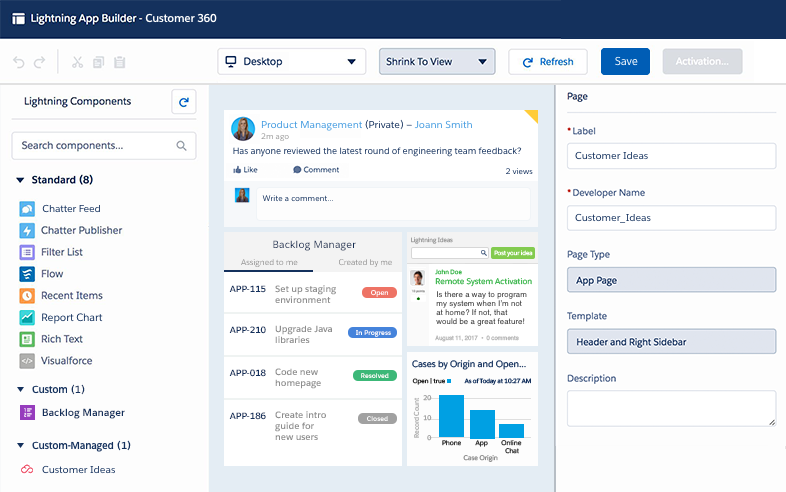
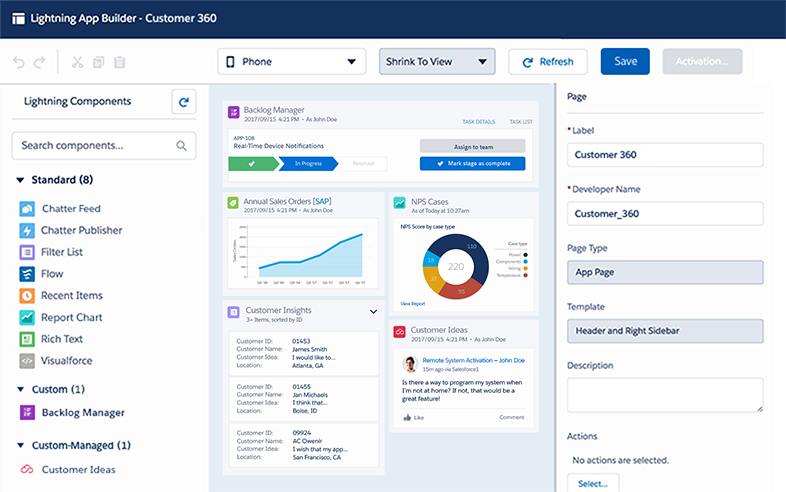
mobile views

diff --git a/src/index.config.js b/src/index.config.js
@@ -356,6 +356,9 @@ export default function ($stateProvider, $urlRouterProvider, $provide) {
           template: require('./app/3-build-your-app/partials/5-customize-a-page-layout.drawer.html'),
           controller: 'CustomizeAPageLayoutDrawerController'
         },
+        phone: {
+          template: require('./app/3-build-your-app/partials/5-customize-a-page-layout.phone.html')
+        },
         mobile: {
           template: require('./mobile.html')
         }
@@ -377,6 +380,9 @@ export default function ($stateProvider, $urlRouterProvider, $provide) {
         drawer: {
           template: require('./app/3-build-your-app/partials/6-customize-navigation.drawer.html'),
           controller: 'CustomizeNavigationDrawerController'
+        },
+        phone: {
+          template: require('./app/3-build-your-app/partials/6-customize-navigation.phone.html')
         },
         mobile: {
           template: require('./mobile.html')

diff --git a/src/app/3-build-your-app/partials/6-customize-navigation.html b/src/app/3-build-your-app/partials/6-customize-navigation.html
@@ -38,7 +38,7 @@
                   <li ng-repeat="item in draglist" class="{{item.classname}}" ng-class="{active:item.classname=='customer-360'&&!active.step5}" data-drop="true"  data-drag="true" ng-model="draglist" jqyoui-droppable="{index: {{$index}}, onDrop: 'activatestep5'}" jqyoui-draggable="{index: {{$index}}, insertInline: true, direction:'jqyouiDirection'}" data-jqyoui-options="{revert: 'invalid'}" data-direction="{{item.jqyouiDirection}}"></li>
                 </ul>
               </div>
-              <div class="click-box" ng-class="{active:active.step5}" wz-next></div>
+              <div class="click-box" ng-class="{active:active.step5}" ng-click="mobileview()"></div>
             </div>
           </wz-step>
           <wz-step success="true">

diff --git a/src/app/3-build-your-app/controllers/5-customize-a-page-layout.controller.js b/src/app/3-build-your-app/controllers/5-customize-a-page-layout.controller.js
@@ -1,6 +1,6 @@
 'use strict';
 
-export default function CustomizeAPageLayoutController($scope, WizardHandler, Steps) {
+export default function CustomizeAPageLayoutController($scope, WizardHandler, Steps, $rootScope) {
   $scope.lightning = {
     input: ''
   };
@@ -30,6 +30,7 @@ export default function CustomizeAPageLayoutController($scope, WizardHandler, St
       WizardHandler.wizard('monitor').next();
       Steps.activate('two');
     } else if (WizardHandler.wizard('monitor').currentStepNumber() === 3) {
+      $rootScope.$emit('mobile-popout:toggle');
       WizardHandler.wizard('monitor').next();
       Steps.activate('three');
     } else if (WizardHandler.wizard('monitor').currentStepNumber() === 4) {

diff --git a/src/app/3-build-your-app/controllers/6-customize-navigation.controller.js b/src/app/3-build-your-app/controllers/6-customize-navigation.controller.js
@@ -1,6 +1,6 @@
 'use strict';
 
-export default function CustomizeNavigationController($scope, WizardHandler, Steps) {
+export default function CustomizeNavigationController($scope, WizardHandler, Steps, $rootScope) {
   $scope.active = {
     step2: false,
     step3: false,
@@ -37,6 +37,10 @@ export default function CustomizeNavigationController($scope, WizardHandler, Ste
 
   $scope.activatestep5 = () => {
     $scope.active.step5 = !$scope.active.step5;
+  };
+
+  $scope.mobileview = () => {
+    $rootScope.$emit('mobile-popout:toggle');
   };
 
   $scope.Next = function () {

diff --git a/src/index.html b/src/index.html
@@ -91,12 +91,12 @@
       </steps-container>
    
       <div class="mobile-popout" ng-show="showMobilePopout">
-        <div class="blocker" ng-click="$root.closeMobilePopout()"> 
+        <div class="blocker" ng-click="$root.closeMobilePopout($event)">
           <div class="phone">
               <div class="phone-view" ui-view="phone"></div>
           </div>
 
-          <a class="back-to-laptop" ng-click="$root.closeMobilePopout()">
+          <a class="back-to-laptop" ng-click="$root.closeMobilePopout($event)">
           </a>
         </div>
       </div>

diff --git a/src/index.run.js b/src/index.run.js
@@ -31,9 +31,11 @@ export default function run(
     $rootScope.wizard.stateIndex = args.index;
   });
 
-  $rootScope.closeMobilePopout = function() {
+  $rootScope.closeMobilePopout = function(event) {
     $rootScope.showMobilePopout = false;
     WizardHandler.wizard('monitor').next();
+    event.stopPropagation();
+    return false;
   };
 
   $rootScope.progressStates = {

diff --git a/src/app/3-build-your-app/partials/5-customize-a-page-layout.phone.html b/src/app/3-build-your-app/partials/5-customize-a-page-layout.phone.html
@@ -1,0 +1,1 @@
+<img src="../assets/5-customize-a-page-layout-mobile.gif" alt="phone" class="img-responsive">

diff --git a/src/app/3-build-your-app/partials/6-customize-navigation.phone.html b/src/app/3-build-your-app/partials/6-customize-navigation.phone.html
@@ -1,0 +1,1 @@
+<img src="../assets/6-customize-navigation-mobile.gif" alt="phone" class="img-responsive">
